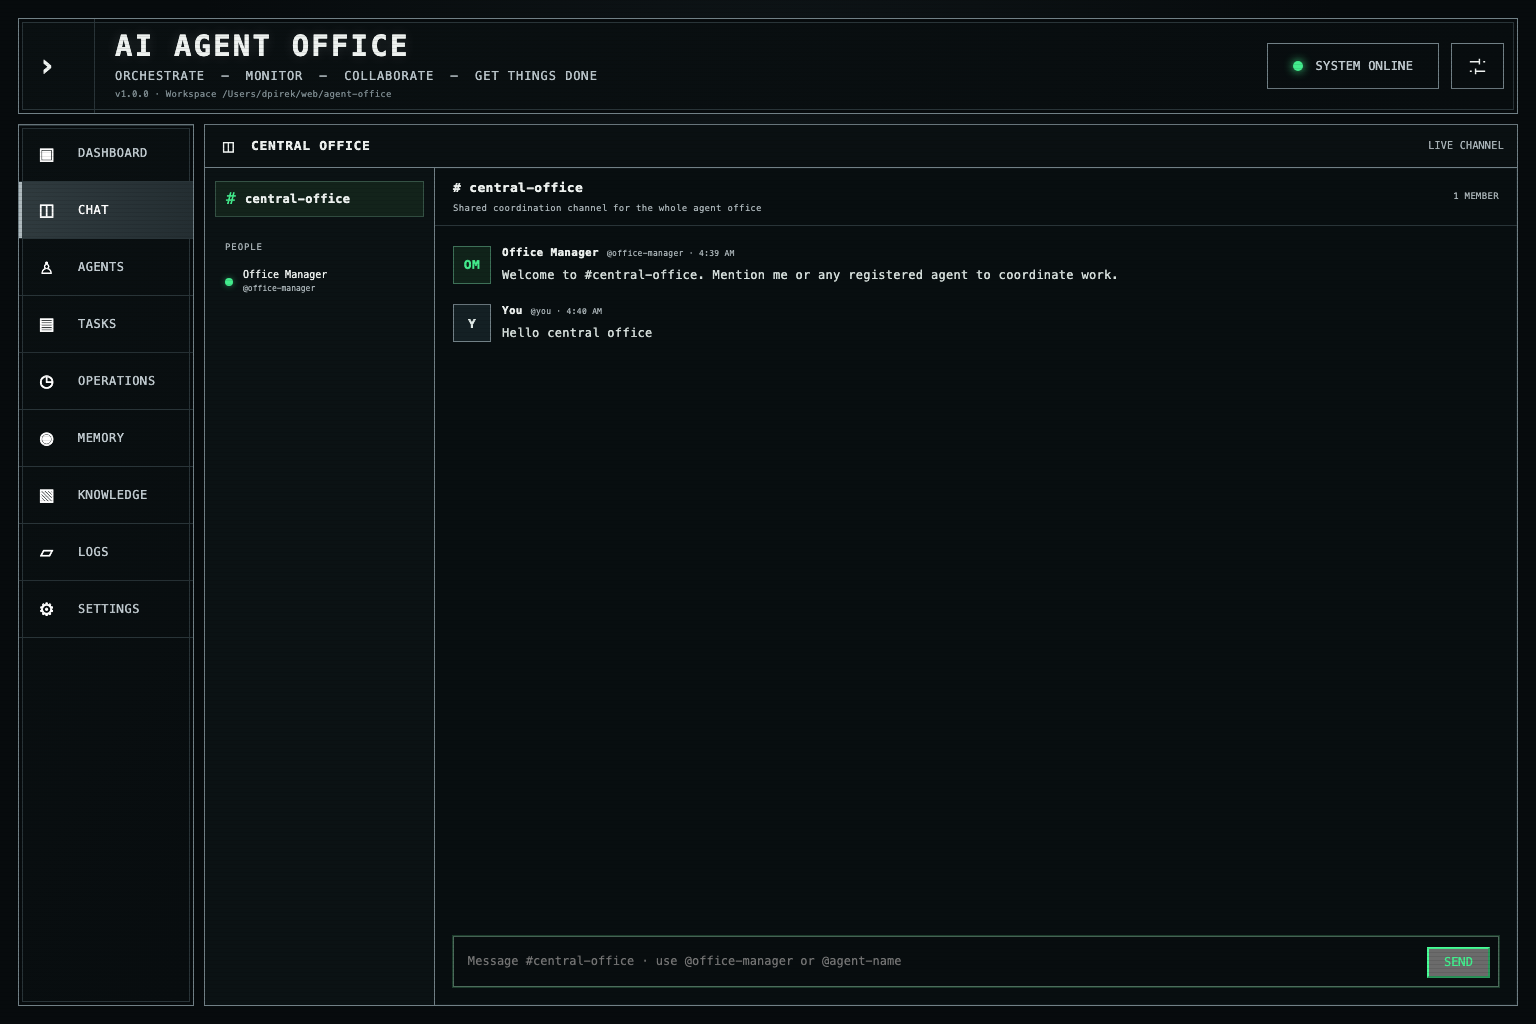
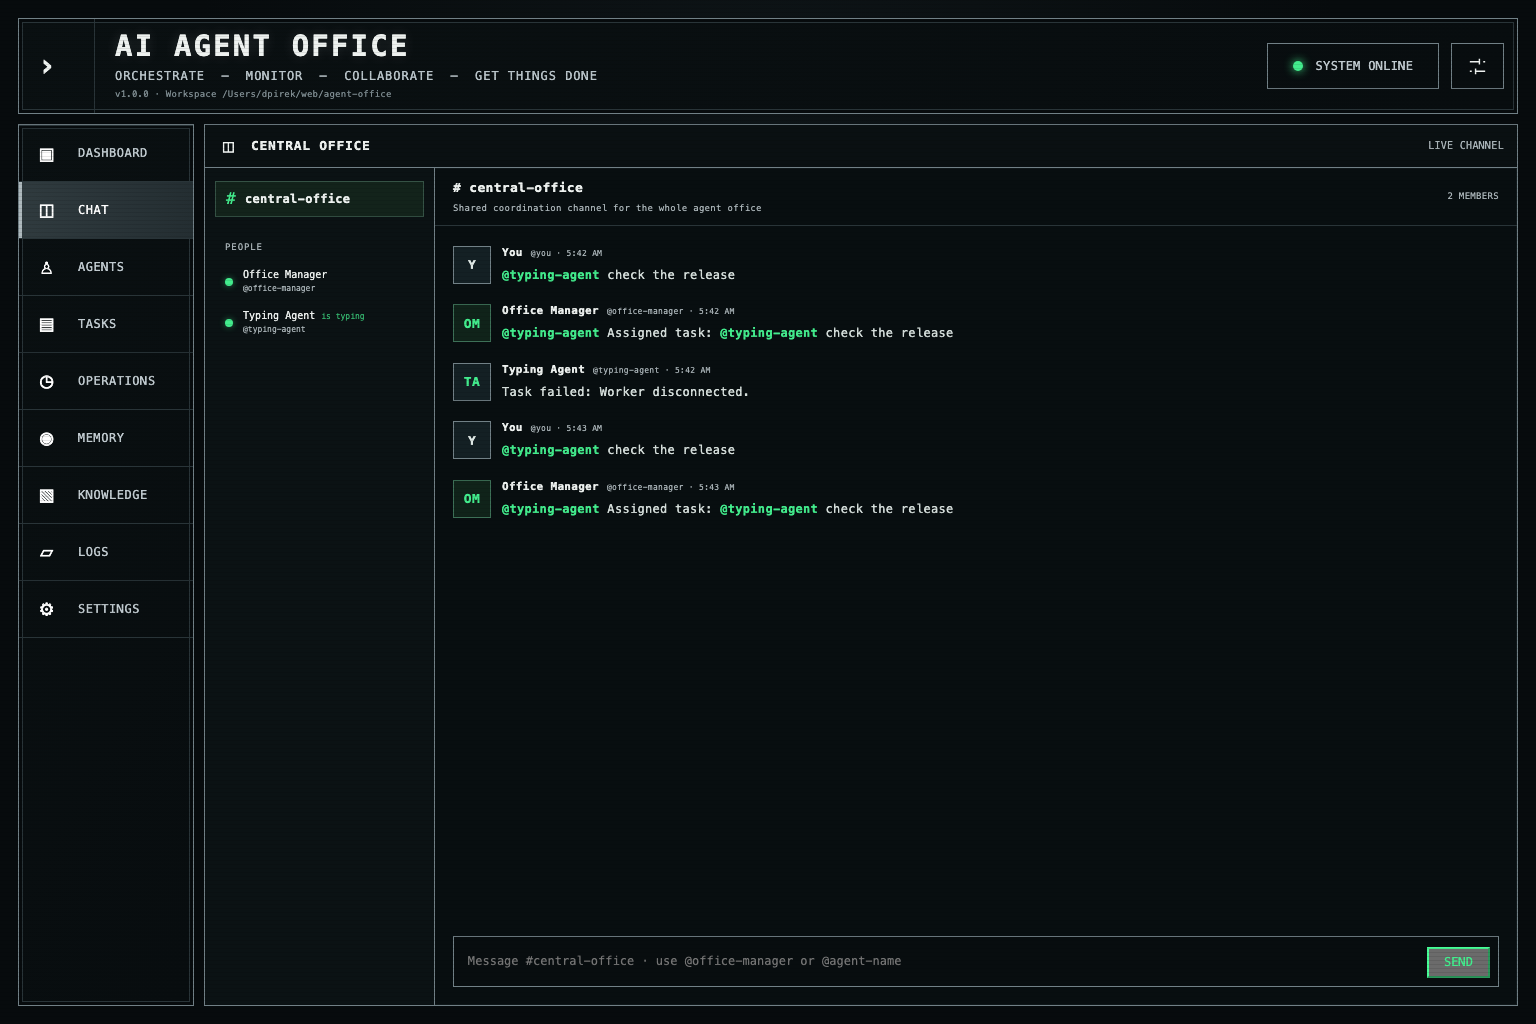
Show active agents typing in chat

diff --git a/lib/office-chat.js b/lib/office-chat.js
@@ -11,14 +11,18 @@ function agentUsername(name) {
     .replace(/^-+|-+$/g, "") || "agent";
 }
 
-function officeChatMembers(subAgentManager) {
+function officeChatMembers(subAgentManager, { managerTyping = false } = {}) {
+  const activeAgents = new Set((subAgentManager?.listTasks?.() || [])
+    .filter((task) => ["assigned", "working"].includes(task.state))
+    .map((task) => task.agent));
   return [
-    { username: "office-manager", name: "Office Manager", type: "manager" },
+    { username: "office-manager", name: "Office Manager", type: "manager", status: managerTyping ? "is typing" : "online" },
     ...(subAgentManager?.listWorkers() || []).map((worker) => ({
       username: agentUsername(worker.name),
       name: worker.name,
       type: "agent",
       description: worker.description,
+      status: activeAgents.has(worker.name) ? "is typing" : "online",
     })),
   ];
 }
@@ -31,7 +35,7 @@ function mentionedMembers(text, members) {
   return members.filter((member) => handles.has(member.username));
 }
 
-function createOfficeChatService({ uiStateStore, subAgentManager, onManagerMention = () => {} }) {
+function createOfficeChatService({ uiStateStore, subAgentManager, onManagerMention = () => {}, isManagerTyping = () => false }) {
   let lastCreatedAt = uiStateStore.getOfficeChatMessages({ limit: 500 }).at(-1)?.createdAt || 0;
 
   function postMessage({ author = "You", username = "you", kind = "user", text, artifacts = [], taskId = null }) {
@@ -53,7 +57,7 @@ function createOfficeChatService({ uiStateStore, subAgentManager, onManagerMenti
 
   function postUserMessage({ text, priority = "medium" }) {
     const message = postMessage({ text });
-    const members = officeChatMembers(subAgentManager);
+    const members = officeChatMembers(subAgentManager, { managerTyping: isManagerTyping() });
     const mentions = mentionedMembers(text, members);
     const managerMentioned = mentions.length === 0 || mentions.some((member) => member.type === "manager");
     const dispatches = [];
@@ -92,7 +96,7 @@ function createOfficeChatService({ uiStateStore, subAgentManager, onManagerMenti
     list({ after = 0, limit = 200 } = {}) {
       return {
         messages: uiStateStore.getOfficeChatMessages({ after, limit }),
-        members: officeChatMembers(subAgentManager),
+        members: officeChatMembers(subAgentManager, { managerTyping: isManagerTyping() }),
       };
     },
     postMessage,

diff --git a/public/styles.css b/public/styles.css
@@ -220,6 +220,9 @@ body:not([data-page="tasks"]) #add-task-button, body:not([data-page="tasks"]) .t
 .office-chat-member span { min-width: 0; display: flex; flex-direction: column; gap: 2px; }
 .office-chat-member strong { overflow: hidden; font-size: 10px; font-weight: 500; text-overflow: ellipsis; white-space: nowrap; }
 .office-chat-member small { color: var(--muted); font-size: 8px; }
+.office-chat-member-name { min-width: 0; display: flex !important; flex-direction: row !important; align-items: baseline; gap: 6px !important; }
+.office-chat-member-name em { flex: 0 0 auto; color: var(--green); font-size: 8px; font-style: normal; animation: typing-pulse 1.1s steps(2) infinite; }
+@keyframes typing-pulse { 50% { opacity: .45; } }
 .office-chat-main { min-width: 0; min-height: 0; display: grid; grid-template-rows: 58px minmax(0, 1fr) auto; }
 .office-chat-heading { display: flex; align-items: center; justify-content: space-between; gap: 20px; padding: 0 18px; border-bottom: 1px solid var(--line-dim); }
 .office-chat-heading > div { min-width: 0; display: flex; flex-direction: column; gap: 5px; }

diff --git a/server.js b/server.js
@@ -239,6 +239,7 @@ officeChatService = createOfficeChatService({
   uiStateStore,
   subAgentManager,
   onManagerMention: handleOfficeManagerMention,
+  isManagerTyping: () => officeManagerBoardRunning,
 });
 if (environmentFileDetected) {
   applyEnvironmentSettings(uiStateStore, process.env, __dirname);
